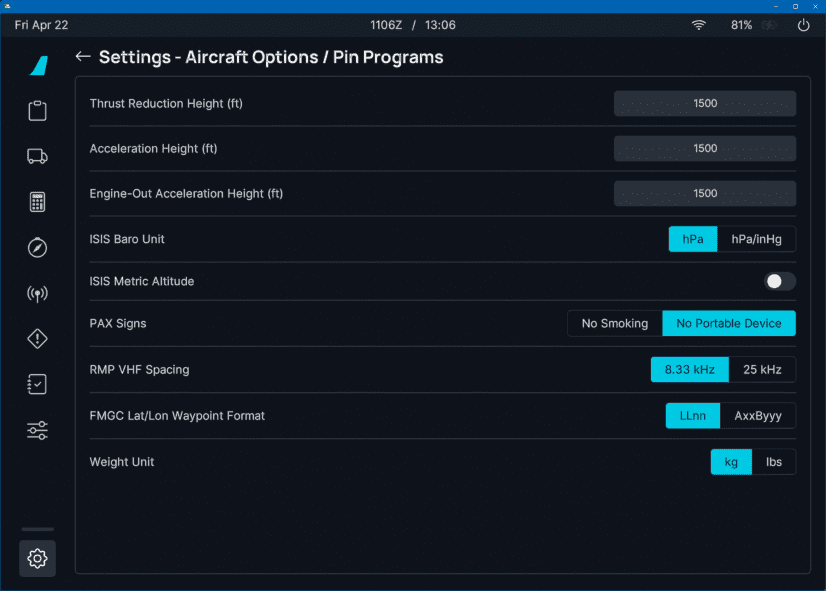
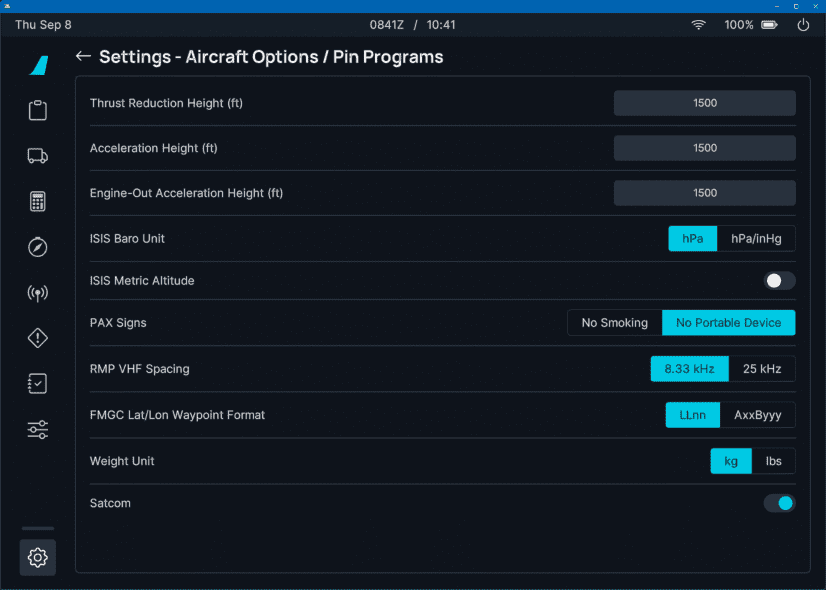
docs: Updated flyPad docs for Satcom PR (#633)

diff --git a/docs/fbw-a32nx/feature-guides/flypados3/settings.md b/docs/fbw-a32nx/feature-guides/flypados3/settings.md
@@ -71,6 +71,8 @@ Settings for A32NX aircraft configuration.
       NAT routes are imported via SimBrief.  
 - Weight Unit:
     - The weight unit of the aircraft used for aircraft weight, fuel and simBrief imports.
+- Satcom:
+    - Enables showing the Honeywell JetWave Satcom antenna on the fuselage.   
   
 ## Sim Options
 
